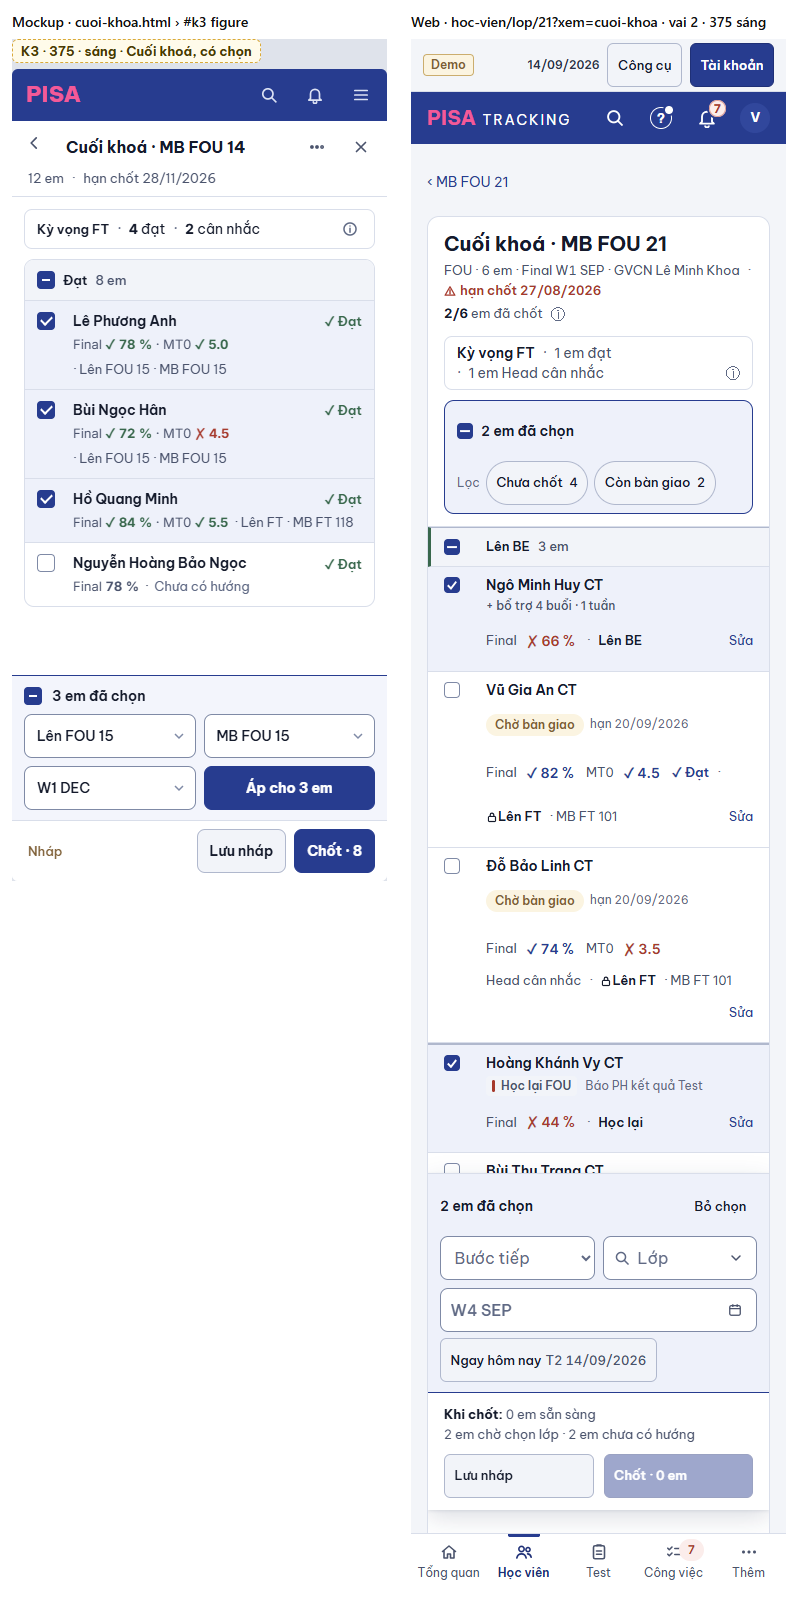
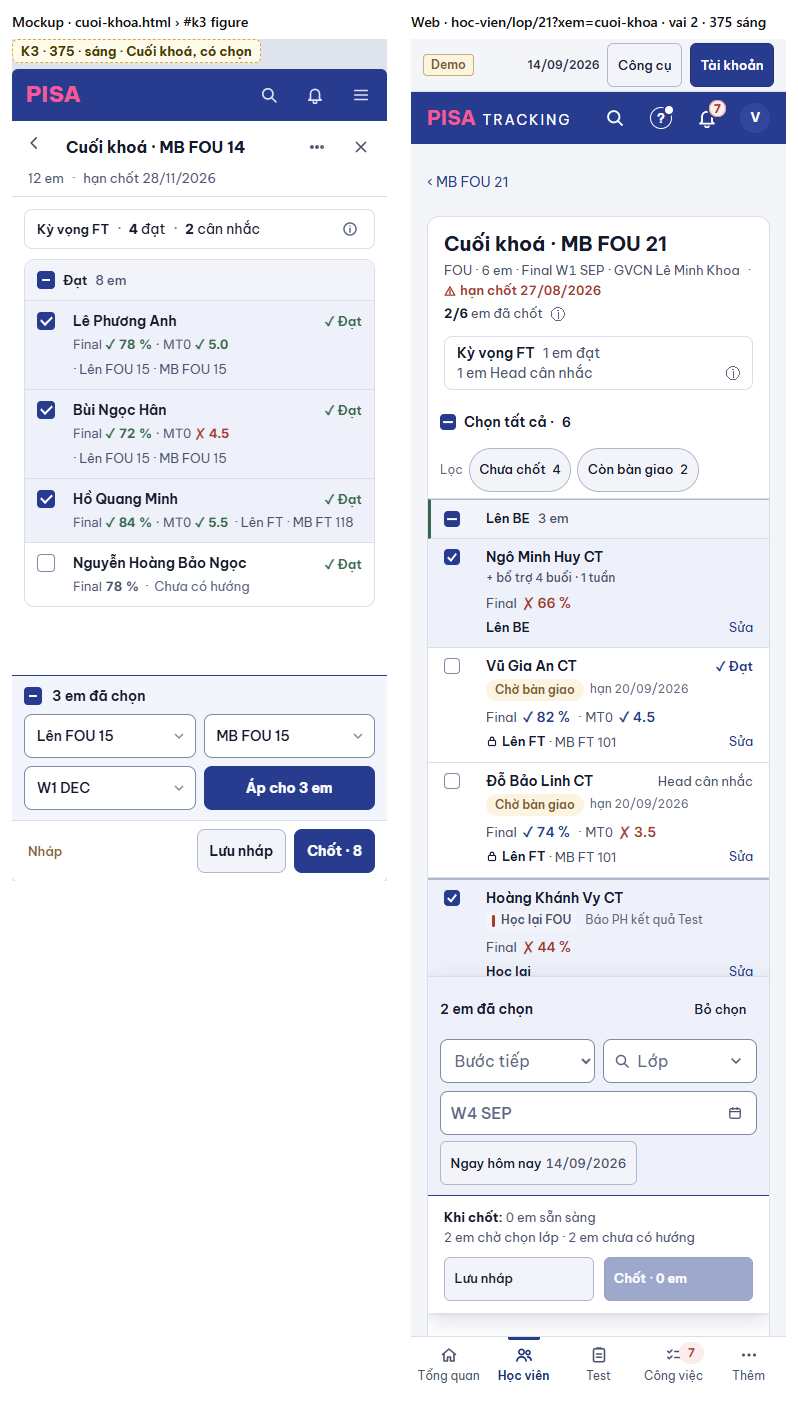
NHẸ HƠN PR-5 (PTA rà #1997): chữ chờ 'Chọn lớp' không cắt; Kỳ vọng FT từng mục không tách, 375 không '·' mồ côi; thẻ 375 hai hàng gọn (Kỳ vọng góc phải, Bước tiếp · Lớp · Sửa một hàng, khoá cách chữ); 375 Lọc hàng riêng, 'n em đã chọn' chỉ ở thanh đáy; Ngay hôm nay không thứ

diff --git a/web/src/modules/classes/CuoiKhoaLop.tsx b/web/src/modules/classes/CuoiKhoaLop.tsx
@@ -394,12 +394,14 @@ export function CuoiKhoaLop({ classId, emMo, onDaMoEm, theoVai }: { classId: num
     if (x.kv) return x.kv.dat ? 'dat' : 'khong';
     return e.kqdr.mt0 || e.kqdr.moTay ? 'can' : 'cho';
   };
+  /** Vùng bấm ≥ 44 px ở 375 mà không đội chiều cao dòng (thẻ gọn như khung K3). */
+  const HIT = "relative after:absolute after:inset-x-0 after:-inset-y-2.5 after:content-['']";
   const VIEN_DAT = { color: 'rgb(var(--kq-bang-rgb))', borderColor: 'rgb(var(--kq-bang-rgb) / .5)' };   // Đạt = xanh dương (MK-6), không xanh lá
   const VIEN_TRUOT = { color: 'rgb(var(--bad-rgb))', borderColor: 'rgb(var(--bad-line-rgb))' };
   /** `gon` (thẻ < 1280, khung K3): chữ màu không viền, vùng bấm vẫn ≥ 44 px ở 375. */
   const nutDiem = (e: Em, chu: ReactNode, dat: boolean | null, nhan: string, gon = false) => (
     <button type="button" aria-label={nhan} aria-expanded={hopDiem === e.id} aria-haspopup="dialog"
-      className={`inline-flex items-center justify-center gap-1 rounded-md bg-transparent text-sm font-semibold tabular-nums hover:bg-[color:var(--accent-soft)] ${gon ? 'min-h-[44px] border-0 px-1 sm:min-h-0' : 'h-[30px] min-w-[72px] border px-2'}`}
+      className={`inline-flex items-center justify-center gap-1 rounded-md bg-transparent text-sm font-semibold tabular-nums hover:bg-[color:var(--accent-soft)] ${gon ? `border-0 px-0.5 ${HIT}` : 'h-[30px] min-w-[72px] border px-2'}`}
       style={dat === true ? VIEN_DAT : dat === false ? VIEN_TRUOT : { borderColor: 'var(--line-strong)' }}
       onClick={(ev) => { neoDiem.current = ev.currentTarget; setHopDiem(hopDiem === e.id ? null : e.id); }}>{chu}</button>
   );
@@ -518,7 +520,7 @@ export function CuoiKhoaLop({ classId, emMo, onDaMoEm, theoVai }: { classId: num
     if (khoa(e)) {
       return (
         <span className="inline-flex flex-wrap items-center gap-x-2 text-sm font-semibold text-slate-100">
-          <IconKhoa />{chuHuong(e)}
+          <span className="inline-flex items-center gap-1"><IconKhoa />{chuHuong(e)}</span>
           {laQl && e.lenh!.huong !== 'chuyen_lop' && <button type="button" className="link min-h-[44px] border-0 bg-transparent p-0 text-[13px] sm:min-h-0" onClick={() => doi(e.id, { mo: true })}>{t('Sửa')}</button>}
           {e.lenh!.huong === 'chuyen_lop' && <span className="text-xs font-normal text-slate-500">{t('sửa ở ⋯ Chuyển lớp… của em')}</span>}
         </span>
@@ -611,7 +613,7 @@ export function CuoiKhoaLop({ classId, emMo, onDaMoEm, theoVai }: { classId: num
     return (
       <span className="block" onFocusCapture={taiLopKhac}>
         <ChonLop ds={dsLop} value={x.lop} onChange={(id) => doi(e.id, { lop: id })} ariaLabel={t('Lớp · {ten}', { ten: e.fullName })}
-          maCu={x.lop ? lopCua.get(x.lop)?.code : undefined} moLopMoi={() => setMoLop({ huong: x.huong, ganCho: e.id })} ghiChuDs={t('Chi nhánh {cn} trước, chi nhánh khác sau', { cn: d.from.branchCode })} gon />
+          maCu={x.lop ? lopCua.get(x.lop)?.code : undefined} moLopMoi={() => setMoLop({ huong: x.huong, ganCho: e.id })} ghiChuDs={t('Chi nhánh {cn} trước, chi nhánh khác sau', { cn: d.from.branchCode })} placeholder={t('Chọn lớp')} gon />
       </span>
     );
   };
@@ -620,7 +622,7 @@ export function CuoiKhoaLop({ classId, emMo, onDaMoEm, theoVai }: { classId: num
     const hl = huongLenh(x);
     if (!hl || !canLopDich(hl)) return null;
     const ngayNay = laChuyenNgay(x.tuan, h);
-    if (khoa(e)) return <span className="whitespace-nowrap text-[13px] tabular-nums text-dim">{ngayNay ? t('Ngay hôm nay · {ngay}', { ngay: thuNgay(x.tuan, h) }) : tuanLich(x.tuan, h)}</span>;
+    if (khoa(e)) return <span className="whitespace-nowrap text-[13px] tabular-nums text-dim">{ngayNay ? t('Ngay hôm nay · {ngay}', { ngay: ngay(x.tuan) }) : tuanLich(x.tuan, h)}</span>;
     return <OTuan tuanChon={d.tuanChon} value={ngayNay ? '' : x.tuan} onChange={(v) => doi(e.id, { tuan: v })} ariaLabel={t('Tuần · {ten}', { ten: e.fullName })}
       chuaChon={ngayNay ? t('Ngay hôm nay') : tuanLich(tuanChung, h)} gon />;
   };
@@ -630,7 +632,7 @@ export function CuoiKhoaLop({ classId, emMo, onDaMoEm, theoVai }: { classId: num
     const xong = l.banGiao.xacNhan;
     const qua = !xong && !!l.banGiao.hanGvcn && h > l.banGiao.hanGvcn;
     return (
-      <button type="button" className="inline-flex min-h-[44px] items-center gap-1.5 border-0 bg-transparent p-0 text-left sm:min-h-0" onClick={() => setBanGiao(l.id)}
+      <button type="button" className={`inline-flex items-center gap-1.5 border-0 bg-transparent p-0 text-left ${HIT}`} onClick={() => setBanGiao(l.id)}
         aria-label={t('Bàn giao · {ten}', { ten: e.fullName })}>
         <Nhan tone={xong ? 'ok' : qua ? 'late' : 'soon'}>{xong ? t('Đã bàn giao') : qua ? t('Quá hạn bàn giao') : t('Chờ bàn giao')}</Nhan>
         {!xong && l.banGiao.hanGvcn && <span className="text-[12px] tabular-nums text-slate-500">{t('hạn {ngay}', { ngay: ngay(l.banGiao.hanGvcn) })}</span>}
@@ -790,7 +792,8 @@ export function CuoiKhoaLop({ classId, emMo, onDaMoEm, theoVai }: { classId: num
           <span className="flex max-xl:pt-0.5">{laQl && khoa(e) && !kvMo(e, x) ? null : oChon(e)}</span>
           <span className="min-w-0">
             <span className="flex flex-wrap items-center gap-x-1.5"><Link className="ten-ho-so" to={`/hoc-vien/${e.id}`}>{e.fullName}</Link><ChipXetLaiDong sid={e.id} />
-              {sua[e.id] && Object.keys(sua[e.id]).some((k) => k !== 'mo') && !loi[e.id] && <Nhan tone="doing">{t('đã sửa')}</Nhan>}</span>
+              {sua[e.id] && Object.keys(sua[e.id]).some((k) => k !== 'mo') && !loi[e.id] && <Nhan tone="doing">{t('đã sửa')}</Nhan>}
+              {kvTrang(e, x) && <span className="ml-auto whitespace-nowrap xl:hidden">{oKv(e, x)}</span>}</span>
             {((mot && nhomCua(e) !== 'cho') || e.cuoiKhoa?.goiY?.baoPhTvv || bg) && (
               <span className="mt-0.5 flex flex-wrap items-center gap-x-2 text-xs">
                 {mot && nhomCua(e) !== 'cho' && <span className="inline-flex h-5 items-center gap-1.5 whitespace-nowrap rounded px-1.5 font-semibold text-dim" style={{ background: 'var(--surface-2)' }}>
@@ -801,19 +804,21 @@ export function CuoiKhoaLop({ classId, emMo, onDaMoEm, theoVai }: { classId: num
             )}
             {phu}
             {/* < 1280 (khung K3): dòng hai — Final · MT0 · Kỳ vọng · bước tiếp · lớp; "Sửa" mở ô tại thẻ. */}
-            <span className="mt-1 flex flex-wrap items-center gap-x-2 text-[13px] text-dim xl:hidden">
-              <span className="inline-flex items-center gap-1.5">Final {oFinal(e, true)}</span>
-              {e.kqdr && <span className="inline-flex items-center gap-1.5">MT0 {oMt0(e, true)}</span>}
-              {kvTrang(e, x) && oKv(e, x)}
-              <span aria-hidden className="text-faint">·</span>
-              <span className={x.huong ? 'font-semibold text-slate-100' : 'text-faint'}>{khoa(e) ? <><IconKhoa />{chuHuong(e)}</> : tenHuong(x) ?? t('Chưa có hướng')}</span>
-              {lopChu && <span>· {lopChu}</span>}
+            <span className="mt-1 flex flex-wrap items-center gap-x-1.5 text-[13px] leading-6 text-dim xl:hidden">
+              <span className="inline-flex items-center gap-1 whitespace-nowrap">Final {oFinal(e, true)}</span>
+              {e.kqdr && <span className="inline-flex items-center gap-1 whitespace-nowrap"><span aria-hidden className="text-faint">·</span>MT0 {oMt0(e, true)}</span>}
+            </span>
+            <span className="flex items-center gap-x-1.5 text-[13px] leading-6 text-dim xl:hidden">
+              <span className={`min-w-0 truncate ${x.huong ? 'font-semibold text-slate-100' : 'text-faint'}`}>
+                {khoa(e) ? <span className="inline-flex items-center gap-1"><IconKhoa />{chuHuong(e)}</span> : tenHuong(x) ?? t('Chưa có hướng')}
+                {lopChu && <span className="font-normal text-dim"> · {lopChu}</span>}
+              </span>
               {laQl && !moO && (
-                <button type="button" className="link ml-auto min-h-[44px] border-0 bg-transparent p-0 text-[13px]"
+                <button type="button" className={`link ml-auto shrink-0 border-0 bg-transparent p-0 text-[13px] ${HIT}`}
                   onClick={() => (khoa(e) ? doi(e.id, { mo: true }) : setMoThe((s) => new Set(s).add(e.id)))}>{t('Sửa')}</button>
               )}
               {laQl && moThe.has(e.id) && !sua[e.id]?.mo && (
-                <button type="button" className="link ml-auto min-h-[44px] border-0 bg-transparent p-0 text-[13px]"
+                <button type="button" className={`link ml-auto shrink-0 border-0 bg-transparent p-0 text-[13px] ${HIT}`}
                   onClick={() => setMoThe((s) => { const n = new Set(s); n.delete(e.id); return n; })}>{t('Xong')}</button>
               )}
             </span>
@@ -864,7 +869,7 @@ export function CuoiKhoaLop({ classId, emMo, onDaMoEm, theoVai }: { classId: num
         {coO && (
           <>
             <span className="min-w-0 max-sm:hidden max-xl:[grid-column:2/-1]" title={t('Lớp cho cả nhóm')}><ChonLop ds={dsLop} value={lopCuaNhom(k)} onChange={(id) => chonLopNhom(k, id)} ariaLabel={t('Lớp cho cả nhóm {nhom}', { nhom: TEN_NHOM[k] })}
-              maCu={lopCua.get(lopCuaNhom(k) ?? 0)?.code} moLopMoi={() => setMoLop({ huong, ganCho: { nhom: k } })} ghiChuDs={t('Chỉ lớp chi nhánh {cn}', { cn: d.from.branchCode })} placeholder={t('Lớp cho cả nhóm')} gon /></span>
+              maCu={lopCua.get(lopCuaNhom(k) ?? 0)?.code} moLopMoi={() => setMoLop({ huong, ganCho: { nhom: k } })} ghiChuDs={t('Chỉ lớp chi nhánh {cn}', { cn: d.from.branchCode })} placeholder={t('Chọn lớp')} gon /></span>
             <span className="min-w-0 max-sm:hidden max-xl:[grid-column:2/-1]"><OTuan tuanChon={d.tuanChon} value={tuanNhom(k)} onChange={(v) => chonTuanNhom(k, v)} ariaLabel={t('Tuần cho cả nhóm {nhom}', { nhom: TEN_NHOM[k] })} chuaChon={tuanLich(tuanChung, h)} gon /></span>
           </>
         )}
@@ -908,21 +913,22 @@ export function CuoiKhoaLop({ classId, emMo, onDaMoEm, theoVai }: { classId: num
           <>
             {coKv && (
               <div className="mx-4 mb-2.5 flex min-h-10 flex-wrap items-center gap-x-2 rounded-lg border px-3 py-1.5 text-sm sm:flex-nowrap sm:overflow-hidden sm:whitespace-nowrap" style={{ borderColor: 'var(--line)' }}>
-                <b className="font-semibold">{t('Kỳ vọng FT')}</b>
+                <b className="whitespace-nowrap font-semibold">{t('Kỳ vọng FT')}</b>
                 {[demKv.dat && t('{n} em đạt', { n: demKv.dat }), demKv.khong && t('{n} em không đạt', { n: demKv.khong }), demKv.can && t('{n} em Head cân nhắc', { n: demKv.can }),
-                  demKv.cho && t('{n} em chờ MT0', { n: demKv.cho })].filter(Boolean).map((s) => <span key={String(s)} className="text-dim"><span aria-hidden className="mr-2 text-faint">·</span>{s}</span>)}
+                  demKv.cho && t('{n} em chờ MT0', { n: demKv.cho })].filter(Boolean).map((s) => <span key={String(s)} className="whitespace-nowrap text-dim"><span aria-hidden className="mr-2 text-faint max-sm:hidden">·</span>{s}</span>)}
                 <span className="ml-auto">{luatKv}</span>
               </div>
             )}
             {/* Thanh thao tác MỘT hàng (khung K1 ①): ô chọn tất cả · n em đã chọn › Bước tiếp › Lớp › Tuần · Bỏ chọn …… Lọc. Chưa chọn: chỉ ô chọn + Lọc. */}
-            <div role="toolbar" aria-label={t('Áp cho các em đã chọn')} className="mx-4 mb-3 flex min-h-[52px] flex-wrap items-center gap-x-2.5 gap-y-2 rounded-[10px] border px-3 py-2"
-              style={chon.size ? { borderColor: 'var(--accent)', background: 'var(--accent-soft)' } : { borderColor: 'var(--line)' }}>
+            {/* 375 (khung K3): hàng này chỉ ô chọn tất cả + Lọc, không khung — "n em đã chọn" và ô áp chỉ ở thanh dính đáy. */}
+            <div role="toolbar" aria-label={t('Áp cho các em đã chọn')} className="mx-4 mb-3 flex flex-wrap items-center gap-x-2.5 gap-y-1 max-sm:mx-3 max-sm:mb-1.5 sm:min-h-[52px] sm:rounded-[10px] sm:border sm:px-3 sm:py-2"
+              style={chon.size && !dt ? { borderColor: 'var(--accent)', background: 'var(--accent-soft)' } : { borderColor: 'var(--line)' }}>
               {tatCaQl.length > 0 && (
                 <label className="inline-flex min-h-[44px] cursor-pointer items-center gap-2 whitespace-nowrap text-sm font-semibold text-slate-100 sm:min-h-0">
                   <input type="checkbox" className="h-[18px] w-[18px]" checked={daChonHet} aria-label={t('Chọn tất cả')}
                     ref={(el) => { if (el) el.indeterminate = !daChonHet && chon.size > 0; }}
                     onChange={() => setChon(daChonHet ? new Set() : new Set(tatCaQl.map((e) => e.id)))} />
-                  {chon.size ? <span className="tabular-nums">{t('{n} em đã chọn', { n: chon.size })}</span> : <>{t('Chọn tất cả')} · <span className="tabular-nums">{tatCaQl.length}</span></>}
+                  {chon.size && !dt ? <span className="tabular-nums">{t('{n} em đã chọn', { n: chon.size })}</span> : <>{t('Chọn tất cả')} · <span className="tabular-nums">{tatCaQl.length}</span></>}
                 </label>
               )}
               {chon.size > 0 && !dt && (laQl ? thanhAp : nxChungO)}

diff --git a/web/src/modules/classes/chuyenLopChung.tsx b/web/src/modules/classes/chuyenLopChung.tsx
@@ -1,7 +1,7 @@
 import { api } from '../../lib/api.ts';
 import { ONgay } from '../../ui/ONgay.tsx';
 import { NutChon } from '../../ui/ui.tsx';
-import { thuNgay } from '@shared/domain/index.ts';
+import { ngay } from '@shared/domain/index.ts';
 import { t } from '@shared/i18n/index.ts';
 
 /**
@@ -31,7 +31,7 @@ export const KHOI_VANG = { borderColor: 'rgb(var(--soon-line-rgb))', background:
 /** OV-13l (mockup bước tiếp mục 4): lựa chọn ĐẦU của ô Tuần bắt đầu — "Ngay hôm nay · T5 15/10" = chuyển ngay khi lưu, không hoàn tác. */
 export function NutHomNay({ homNay, chon, onClick, nho }: { homNay: string | null; chon: boolean; onClick: () => void; nho?: boolean }) {
   if (!homNay) return null;
-  return <NutChon nho={nho} chon={chon} onClick={onClick}>{t('Ngay hôm nay')} <span className="tabular-nums text-slate-400">{thuNgay(homNay, homNay)}</span></NutChon>;
+  return <NutChon nho={nho} chon={chon} onClick={onClick}>{t('Ngay hôm nay')} <span className="tabular-nums text-slate-400">{ngay(homNay)}</span></NutChon>;
 }
 
 /** Ô tuần chỉ nhận Thứ Hai từ TUẦN SAU trở đi (Q5) — `tuanChon` do máy chủ trả (`tuanChonDuoc`). `rong`: không chặn trên (tuần xem lại của Tạm dừng học (bảo lưu)). */
